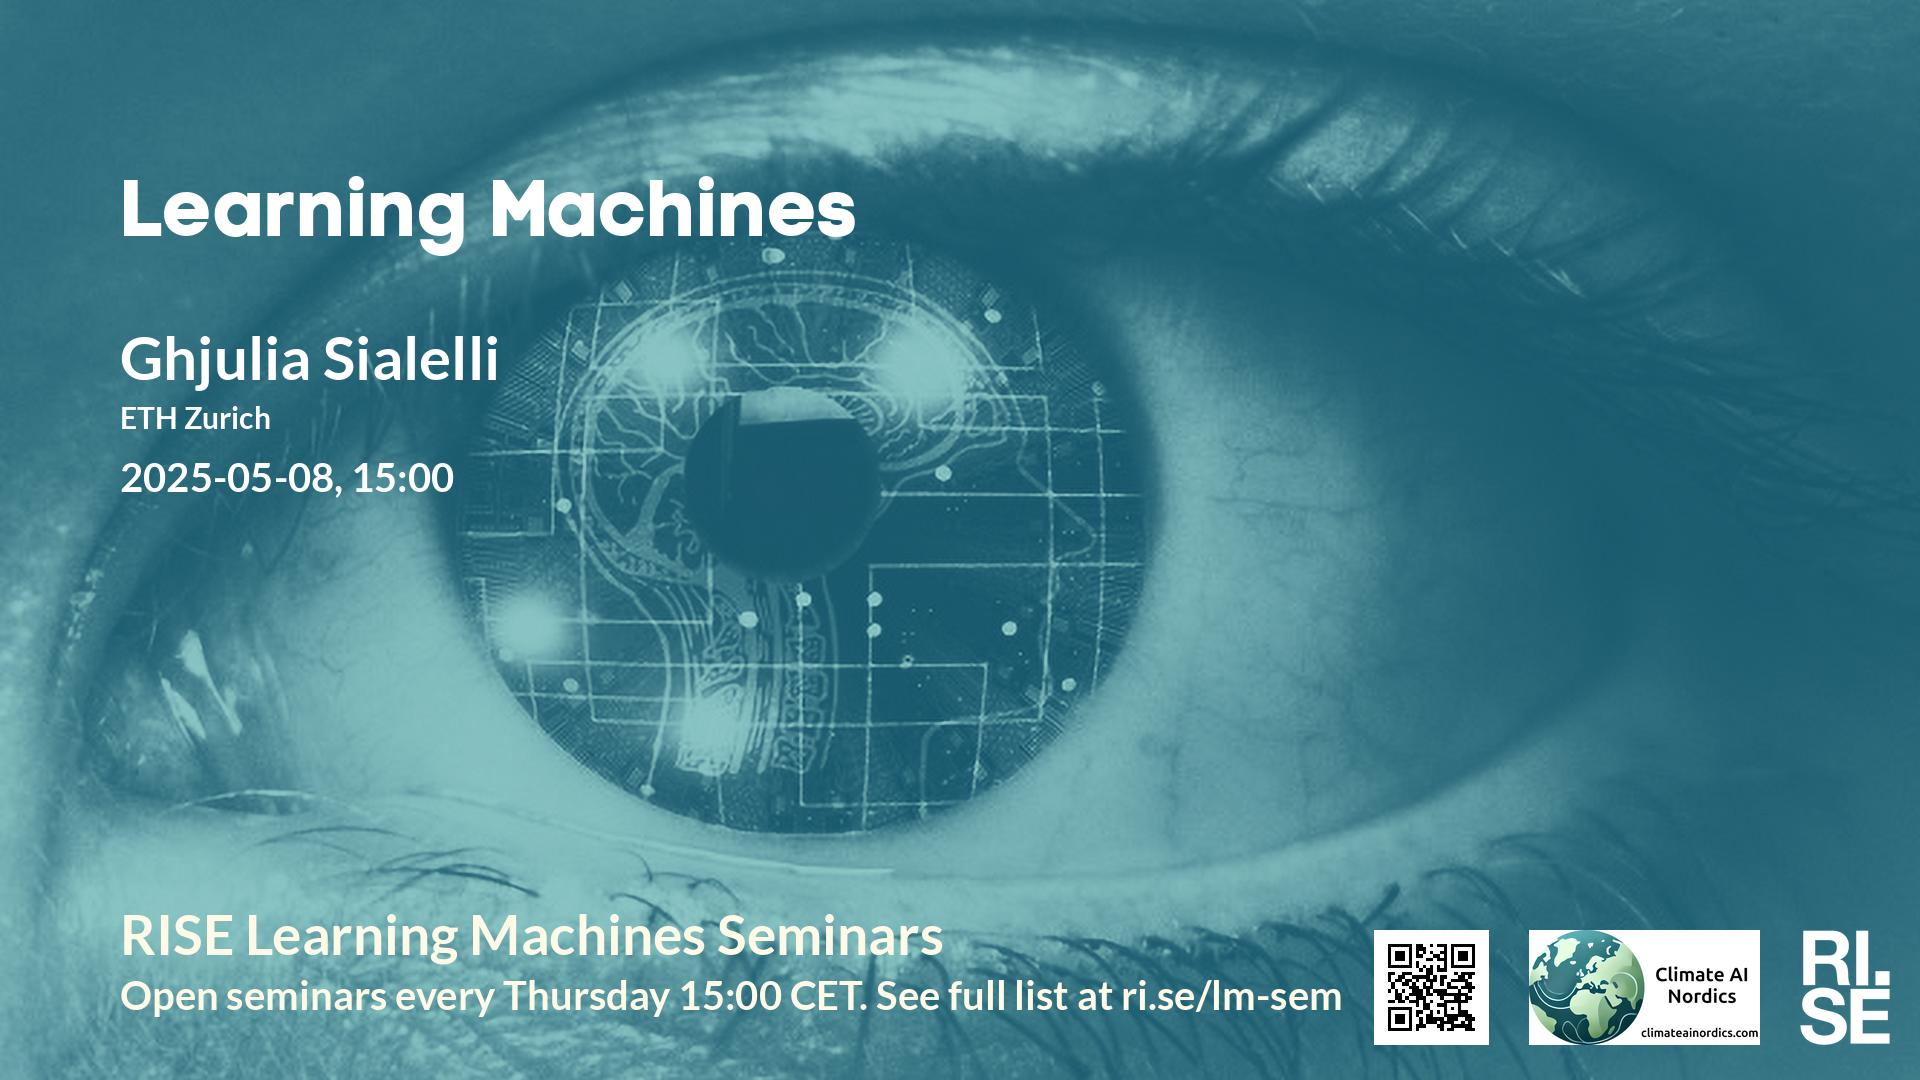
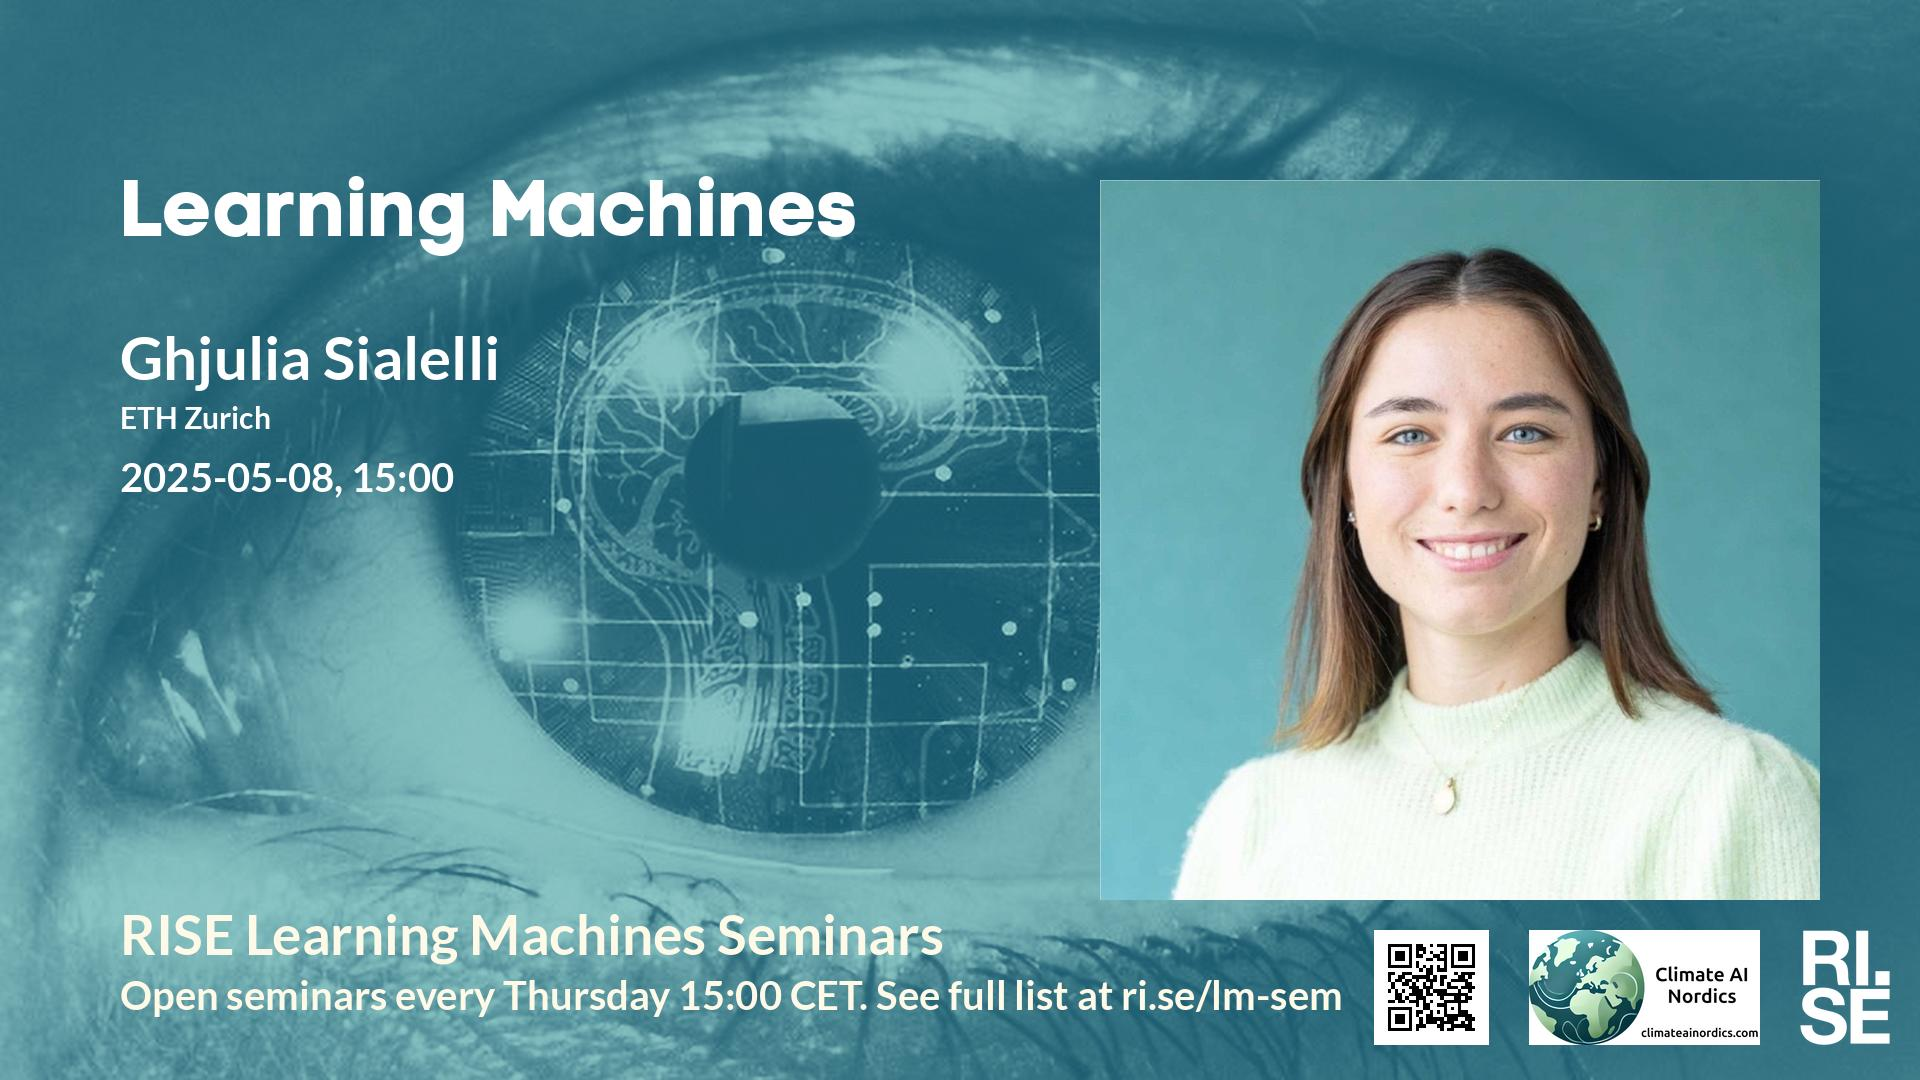
Updated plan on web site.

Changed region(s): [[0.5625, 0.1528, 0.9688, 0.8556]]

diff --git a/lm/2025.md b/lm/2025.md
@@ -25,7 +25,7 @@ table {border-collapse: collapse;}
 | <span style="color:red"> 2025-04-17 </span> | <span style="color:red"> Holy Thursday </span> | <span style="color:red">  </span> | <span style="color:red">  </span> | <span style="color:red">  </span> | <span style="color:red">  </span> | <span style="color:red"> CANCELLED </span> |
 |  2025-04-24  |  [John Martinsson, RISE and Lund University](2025-04-24.md)  |  [photo](2025-04-24-photo-john-martinsson.jpg)  |  [social media ](2025-04-24-social-media-john-martinsson.jpg)  |  [meeting backdrop ](2025-04-24-meeting-backdrop-john-martinsson.jpg)  |  [youtube thumbnail ](2025-04-24-youtube-thumbnail-john-martinsson.jpg)  |  S~~TA~~BP  |
 | <span style="color:red"> 2025-05-01 </span> | <span style="color:red"> International Workers' Day </span> | <span style="color:red">  </span> | <span style="color:red">  </span> | <span style="color:red">  </span> | <span style="color:red">  </span> | <span style="color:red"> CANCELLED </span> |
-|  2025-05-08  |  [Ghjulia Sialelli, ETH Zurich](2025-05-08.md)  |    |  [social media ](2025-05-08-social-media-ghjulia-sialelli.jpg)  |  [meeting backdrop ](2025-05-08-meeting-backdrop-ghjulia-sialelli.jpg)  |  [youtube thumbnail ](2025-05-08-youtube-thumbnail-ghjulia-sialelli.jpg)  |  S~~TABP~~  |
+|  2025-05-08  |  [Ghjulia Sialelli, ETH Zurich](2025-05-08.md)  |  [photo](2025-05-08-photo-ghjulia-sialelli.jpg)  |  [social media ](2025-05-08-social-media-ghjulia-sialelli.jpg)  |  [meeting backdrop ](2025-05-08-meeting-backdrop-ghjulia-sialelli.jpg)  |  [youtube thumbnail ](2025-05-08-youtube-thumbnail-ghjulia-sialelli.jpg)  |  S~~T~~ABP  |
 |  2025-05-15  |  [Peter Dueben, European Centre for Medium-Range Weather Forecasts](2025-05-15.md)  |    |  [social media ](2025-05-15-social-media-peter-dueben.jpg)  |  [meeting backdrop ](2025-05-15-meeting-backdrop-peter-dueben.jpg)  |  [youtube thumbnail ](2025-05-15-youtube-thumbnail-peter-dueben.jpg)  |  S~~TABP~~  |
 | <span style="color:purple"> 2025-05-22 </span> | <span style="color:purple"> *Up for grabs!!!* </span> | <span style="color:purple">  </span> | <span style="color:purple">  </span> | <span style="color:purple">  </span> | <span style="color:purple">  </span> | <span style="color:purple"> ~~STABP~~ </span> |
 | <span style="color:red"> 2025-05-29 </span> | <span style="color:red"> Ascension Day  </span> | <span style="color:red">  </span> | <span style="color:red">  </span> | <span style="color:red">  </span> | <span style="color:red">  </span> | <span style="color:red"> CANCELLED </span> |

diff --git a/lm/index.md b/lm/index.md
@@ -25,7 +25,7 @@ table {border-collapse: collapse;}
 | <span style="color:red"> 2025-04-17 </span> | <span style="color:red"> Holy Thursday </span> | <span style="color:red">  </span> | <span style="color:red">  </span> | <span style="color:red">  </span> | <span style="color:red">  </span> | <span style="color:red"> CANCELLED </span> |
 |  2025-04-24  |  [John Martinsson, RISE and Lund University](2025-04-24.md)  |  [photo](2025-04-24-photo-john-martinsson.jpg)  |  [social media ](2025-04-24-social-media-john-martinsson.jpg)  |  [meeting backdrop ](2025-04-24-meeting-backdrop-john-martinsson.jpg)  |  [youtube thumbnail ](2025-04-24-youtube-thumbnail-john-martinsson.jpg)  |  S~~TA~~BP  |
 | <span style="color:red"> 2025-05-01 </span> | <span style="color:red"> International Workers' Day </span> | <span style="color:red">  </span> | <span style="color:red">  </span> | <span style="color:red">  </span> | <span style="color:red">  </span> | <span style="color:red"> CANCELLED </span> |
-|  2025-05-08  |  [Ghjulia Sialelli, ETH Zurich](2025-05-08.md)  |    |  [social media ](2025-05-08-social-media-ghjulia-sialelli.jpg)  |  [meeting backdrop ](2025-05-08-meeting-backdrop-ghjulia-sialelli.jpg)  |  [youtube thumbnail ](2025-05-08-youtube-thumbnail-ghjulia-sialelli.jpg)  |  S~~TABP~~  |
+|  2025-05-08  |  [Ghjulia Sialelli, ETH Zurich](2025-05-08.md)  |  [photo](2025-05-08-photo-ghjulia-sialelli.jpg)  |  [social media ](2025-05-08-social-media-ghjulia-sialelli.jpg)  |  [meeting backdrop ](2025-05-08-meeting-backdrop-ghjulia-sialelli.jpg)  |  [youtube thumbnail ](2025-05-08-youtube-thumbnail-ghjulia-sialelli.jpg)  |  S~~T~~ABP  |
 |  2025-05-15  |  [Peter Dueben, European Centre for Medium-Range Weather Forecasts](2025-05-15.md)  |    |  [social media ](2025-05-15-social-media-peter-dueben.jpg)  |  [meeting backdrop ](2025-05-15-meeting-backdrop-peter-dueben.jpg)  |  [youtube thumbnail ](2025-05-15-youtube-thumbnail-peter-dueben.jpg)  |  S~~TABP~~  |
 | <span style="color:purple"> 2025-05-22 </span> | <span style="color:purple"> *Up for grabs!!!* </span> | <span style="color:purple">  </span> | <span style="color:purple">  </span> | <span style="color:purple">  </span> | <span style="color:purple">  </span> | <span style="color:purple"> ~~STABP~~ </span> |
 | <span style="color:red"> 2025-05-29 </span> | <span style="color:red"> Ascension Day  </span> | <span style="color:red">  </span> | <span style="color:red">  </span> | <span style="color:red">  </span> | <span style="color:red">  </span> | <span style="color:red"> CANCELLED </span> |

diff --git a/lm/2025-05-08.md b/lm/2025-05-08.md
@@ -11,9 +11,13 @@ This seminar is a collaboration between RISE and Climate AI Nordics -- [climatea
 
 **Speaker:** Ghjulia Sialelli, ETH Zurich
 
-**Abstract:** N/A
+**Abstract:** The combination of remote sensing and machine learning has made it possible to map forest properties at an unprecedented scale and resolution. In this presentation, I will focus on the application of deep learning techniques to estimate above-ground biomass (AGB), a key metric for tracking forest carbon and ecosystem dynamics.
 
-**About the speaker:** N/A
+I will begin by introducing our recently published, machine-learning-ready dataset. It features high-resolution (10m) multi-modal satellite imagery, paired with AGB reference values from NASA’s Global Ecosystem Dynamics Investigation (GEDI) mission. Key aspects include the carefully selected geographic coverage, thoughtful integration of diverse satellite data sources, and the establishment of performance baselines using standard deep learning models.
+
+Next, I will describe our ongoing efforts to build on said baselines. This was done both through feature and model engineering. I will also mention some promising yet unsuccessful approaches, highlighting some key challenges of the task at hand. Finally, I will discuss future directions, including incorporating uncertainty estimation and exploring the potential for generating a global above-ground biomass map.
+
+**About the speaker:** Ghjulia Sialelli is a second-year PhD student in the Photogrammetry and Remote Sensing Lab of ETH Zurich, and an ETH AI Center Doctoral Fellow. Her research lies at the frontier of computer vision and remote sensing. In particular, her current work focuses on high-resolution global mapping of above-ground biomass. She is also an organizer of the AI + Environment Summit, a full-day event designed to inspire, ignite and innovate work in AI for the environment.
 
 **Location:** This is an online seminar. Connect using Zoom.
 
